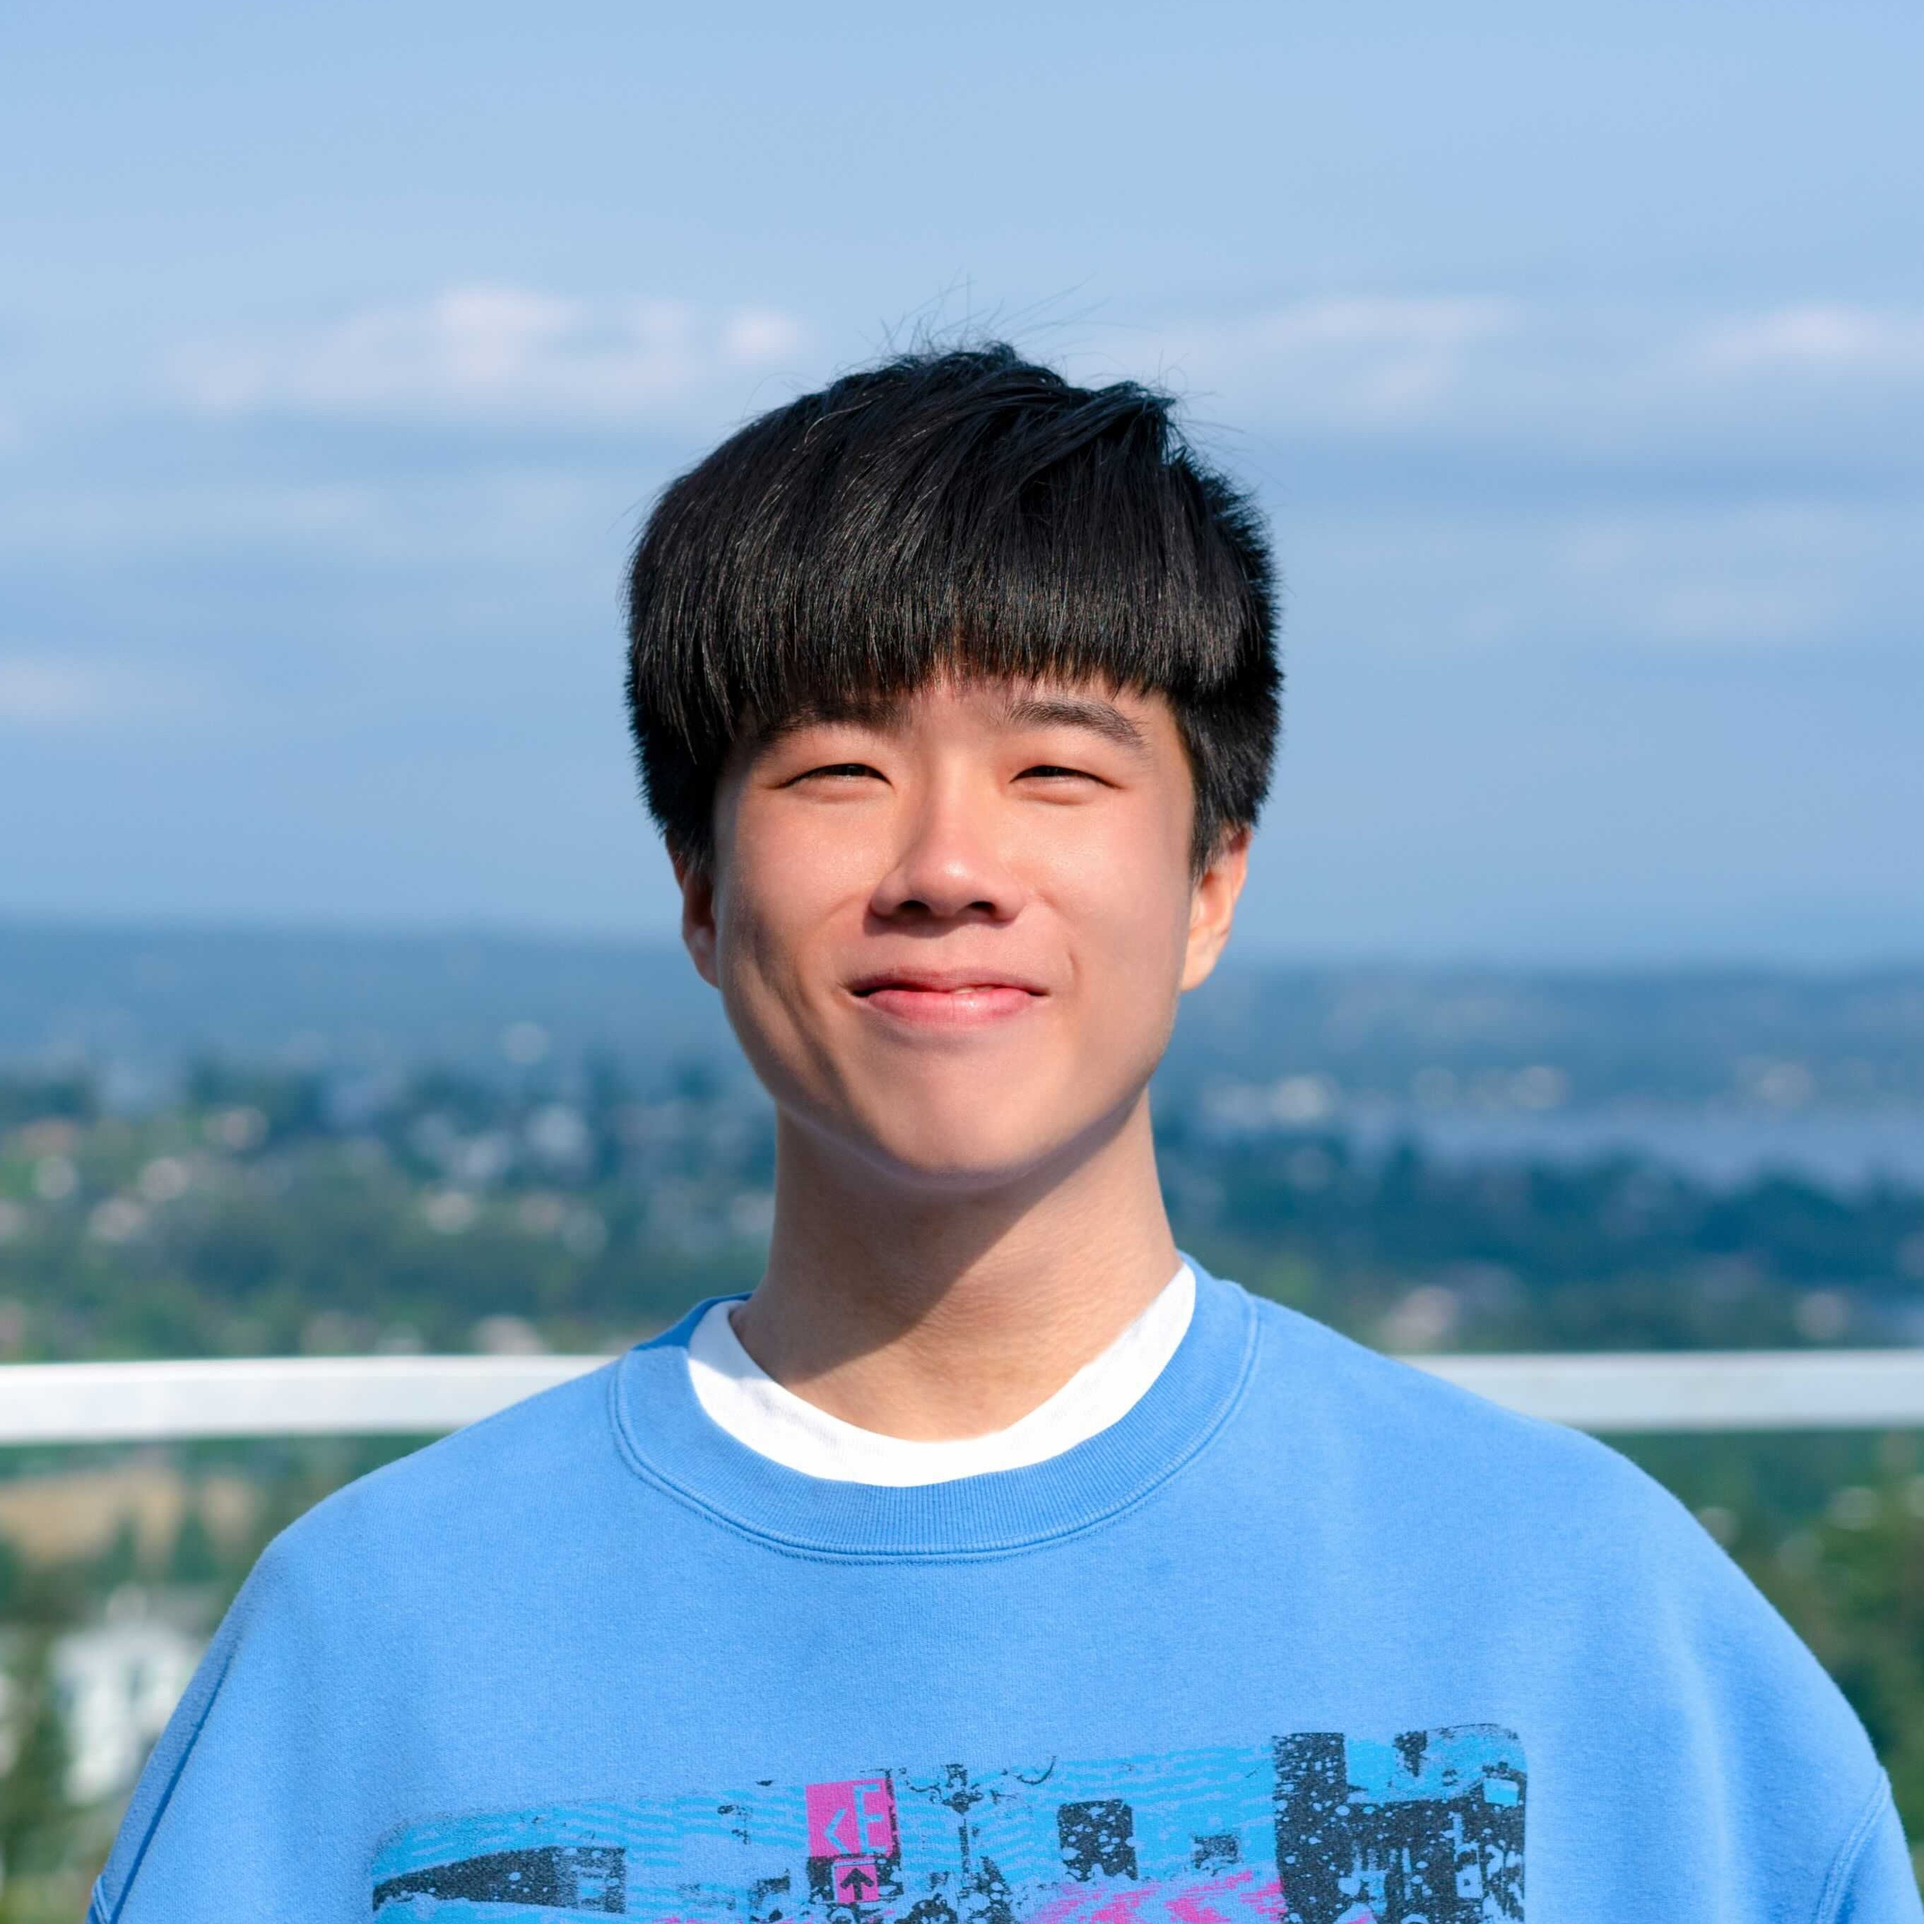
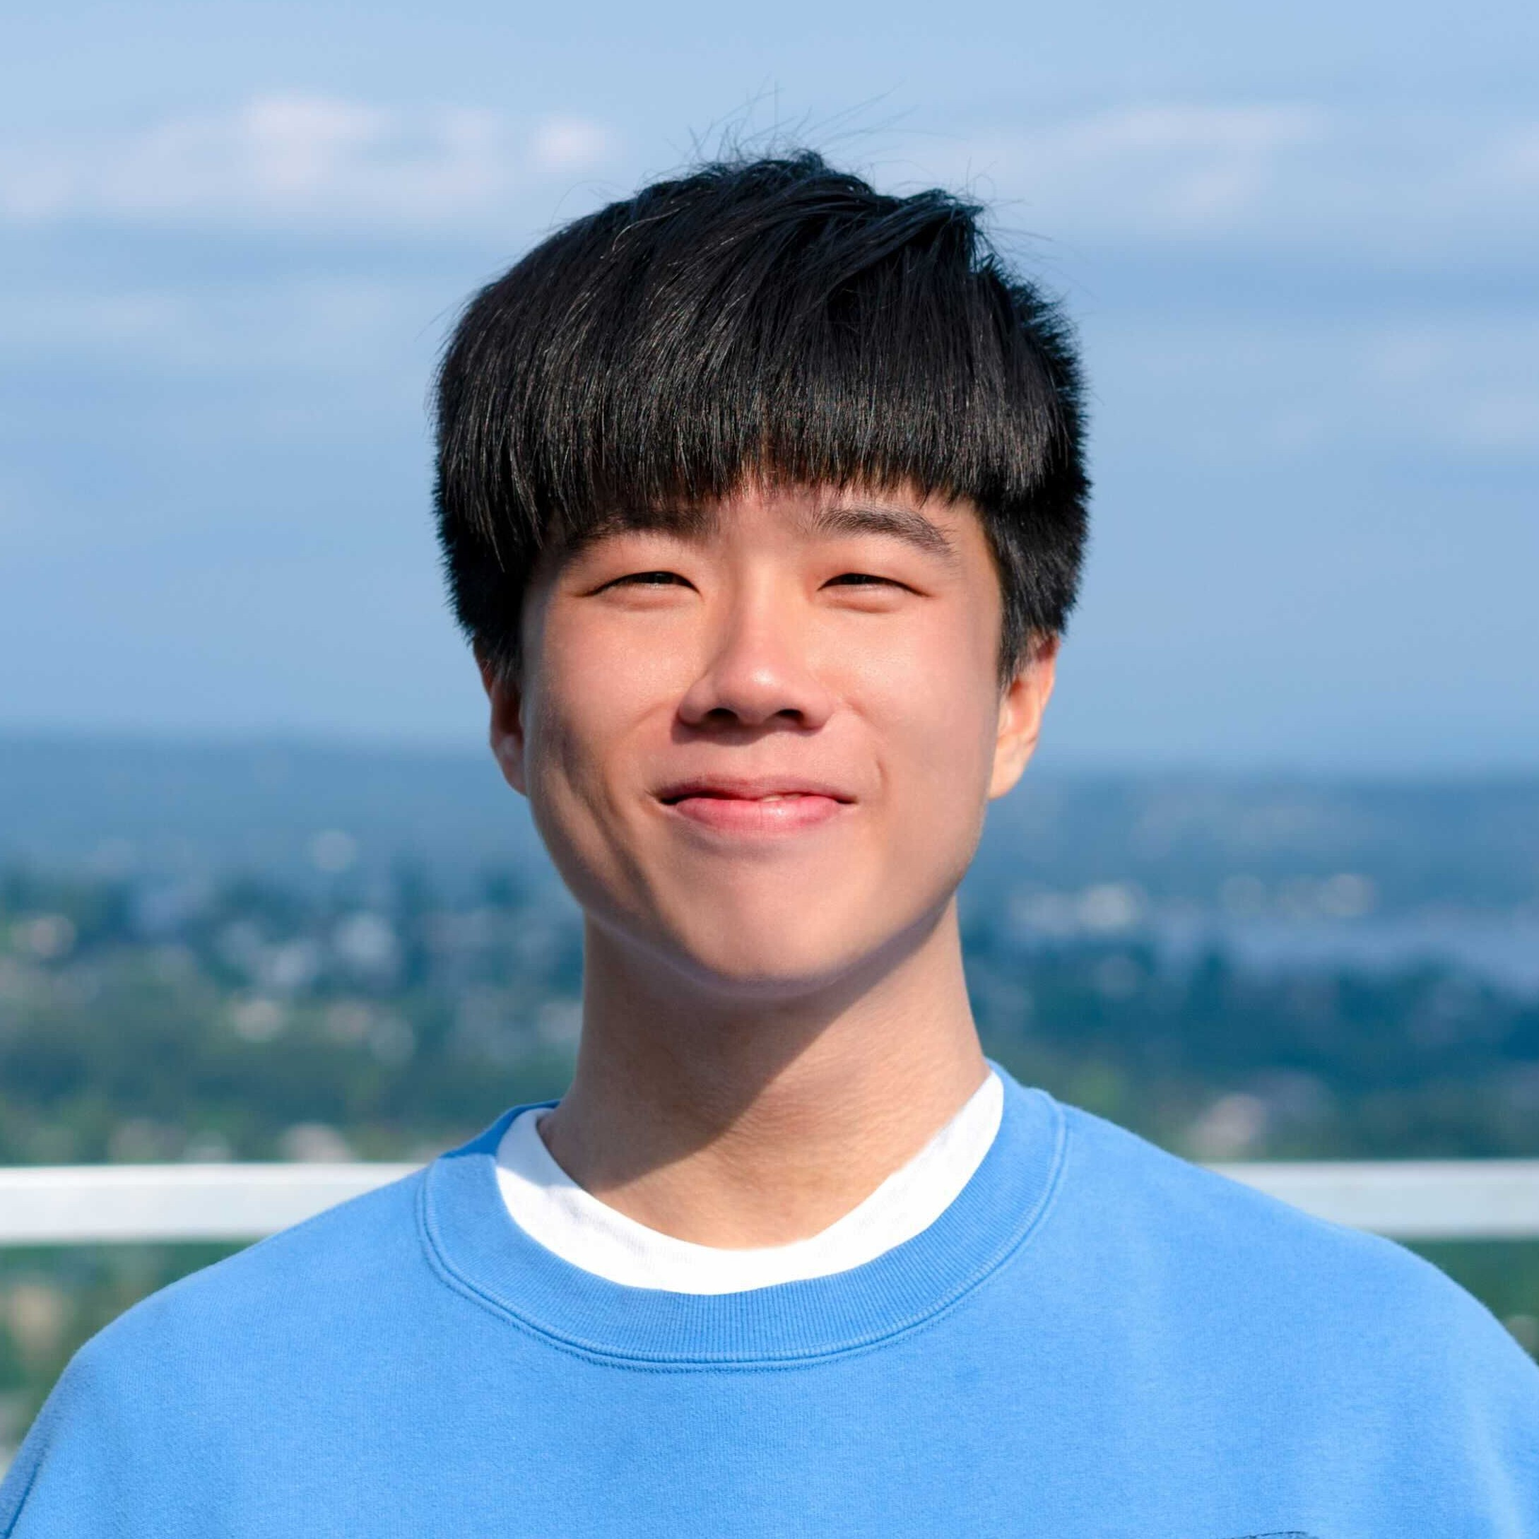
update

diff --git a/index.html b/index.html
@@ -107,7 +107,7 @@
                            </b><br/> Alexey Kamenev, <b>Lirui Wang</b>, Ollin Boer Bohan, Ishwar Kulkarni, Bilal Kartal, Artem Molchanov, Stan Birchfield, David Nistér, Nikolai Smolyanskiy <br/>In arXiv, 2021 <br/> <a target='_blank' href='https://arxiv.org/abs/2109.11094'>arXiv</a>, <a href="javascript:toggle_visibility('kamenev2021predictionnet')">Bibtex</a>, <a href='https://www.youtube.com/watch?v=C7Nb3DRjFP0&t=2s'>Video</a>, <a href='https://blogs.nvidia.com/blog/2020/07/22/drive-labs-predictionnet-self-driving-cars-future/'>Blog</a> 
                            <pre id="kamenev2021predictionnet" xml:space="preserve" style="display: none; font-size: 12px">
 @inproceedings{kamenev2021predictionnet,
-author    = {Alexey Kamenev,  Lirui Wang, Ollin Boer Bohan, Ishwar Kulkarni, Bilal Kartal, Artem Molchanov, Stan Birchfield, David Nistér, Nikolai Smolyanskiy },
+author    = {Alexey Kamenev, Lirui Wang, Ollin Boer Bohan, Ishwar Kulkarni, Bilal Kartal, Artem Molchanov, Stan Birchfield, David Nistér, Nikolai Smolyanskiy },
 title     = {PredictionNet: Real-Time Joint Probabilistic Traffic Prediction for Planning, Control, and Simulation},
 booktitle = {arXiv:2109.11094},
 year      = {2021}
@@ -126,7 +126,7 @@ year      = {2021}
                            </b><br/> <b>Lirui Wang</b>, Yu Xiang, Xiangyun Meng, Dieter Fox <br/>In arXiv, 2021 <br/> <a target='_blank' href='https://arxiv.org/abs/2107.01518'>arXiv</a>, <a href="javascript:toggle_visibility('wang2021hierarchical')">Bibtex</a>, <a href='https://www.youtube.com/watch?v=9mKfSILbzlg'>Video</a>, <a href='https://sites.google.com/view/latent-grasping'>Website</a>, <a href='https://github.com/liruiw/HCG'>Code</a> 
                            <pre id="wang2021hierarchical" xml:space="preserve" style="display: none; font-size: 12px">
 @inproceedings{wang2021hierarchical,
-author    = {Lirui Wang and Yu Xiang and Dieter Fox},
+author    = {Lirui Wang, Yu Xiang, Xiangyun Meng, and Dieter Fox},
 title     = {Hierarchical Policies for Cluttered-Scene Grasping with Latent Plans},
 booktitle = {arXiv:2107.01518},
 year      = {2021}
@@ -163,7 +163,7 @@ year      = {2021}
                            <b>Manipulation Trajectory Optimization with Online Grasp Synthesis and Selection</b><br/><b>Lirui Wang</b>, Yu Xiang, Dieter Fox<br/>In Robotics: Science and Systems (R:SS), 2020 <br/> <a target='_blank' href='https://arxiv.org/abs/1911.10280'>arXiv</a>, <a href="javascript:toggle_visibility('wang2019manipulation')">Bibtex</a>, <a href='https://www.youtube.com/embed/0rZu2cYHzy8'>Video</a>, <a href='https://sites.google.com/view/omg-planner'>Website</a>, <a href='https://github.com/liruiw/OMG-Planner'>Code</a> 
                            <pre id="wang2019manipulation" xml:space="preserve" style="display: none; font-size: 12px">
 @inproceedings{wang2020manipulation,
-author    = {Lirui Wang and Yu Xiang and Dieter Fox},
+author    = {Lirui Wang, Yu Xiang, and Dieter Fox},
 title     = {Manipulation Trajectory Optimization with Online Grasp Synthesis and Selection},
 booktitle = {Robotics: Science and Systems (RSS)},
 year      = {2020}
